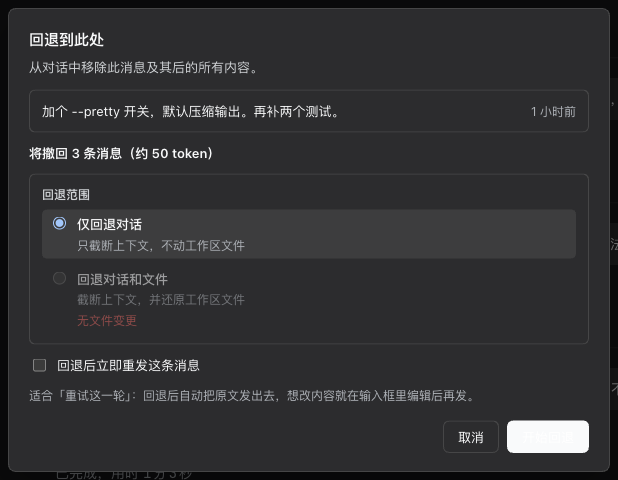
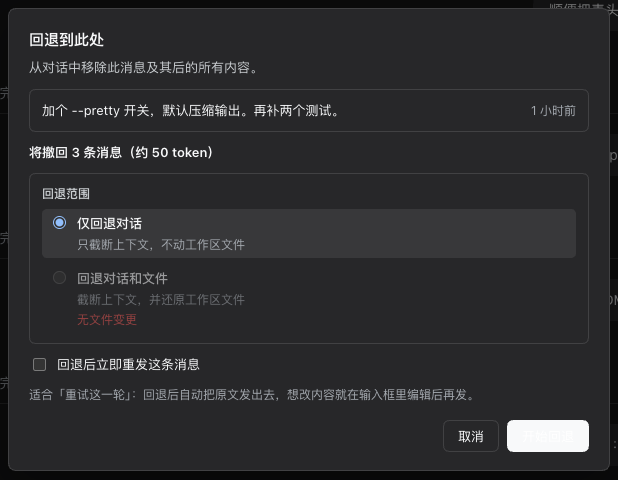
fix(scripts): stop wiping the whole ego browser profile (#33)
Both scripts called Network.clearBrowserCookies to get rid of accumulated
dsh-auth cookies for temporary hosts. ego-browser is the user's real profile, so
that also logged them out of every real site.

They now delete only cookies whose host is loopback (127.0.0.1/localhost/[::1])
and print SMOKE_COOKIES {removed,total}. Measured on this machine: 22 cookies
total, 2 loopback, and the real-site cookie set is unchanged afterwards.

Screenshots are regenerated with PNG metadata stripped (eXIf/tEXt/iTXt/zTXt/tIME)
so the public repo does not carry the capture pipeline's timestamps; the
generator now does this itself on every run.

diff --git a/docs/runtime/0.2.2-rc.1.md b/docs/runtime/0.2.2-rc.1.md
@@ -314,3 +314,30 @@ app.asar 文本、不启动宿主，FAIL 时直接给出受影响的用户功能
 
 **探针本身要能失败**：改坏其中一条 pattern 再跑，应看到 `FAIL seam …｜影响：…` 与末尾清单、
 且退出码为 1（本次已用「把 `extraActions` 改成不存在的标识」验证过）。
+
+### 9.13 ego-browser 用的是**用户真实浏览器 profile**（清 cookie 必须按 domain 限定）
+
+**踩到的坑**：冒烟脚本早期用 `Network.clearBrowserCookies` 清掉临时宿主的 `dsh-auth` cookie，
+否则请求头会累积到 HTTP 431。但这个命令清的是**整个 profile** —— 也就是用户日常在用的
+ego-browser（里面 `.github.com`、`.claude.ai` 等真实登录态），会把人的登录全踢掉。
+
+**正确做法**：只删 host 属于 loopback 的 cookie：
+
+```js
+await page.cdp("Network.enable");
+const all = await page.cdp("Network.getAllCookies");
+const cookies = Array.isArray(all) ? all : (all?.cookies ?? []);
+for (const c of cookies) {
+  const domain = String(c.domain || "").replace(/^\./u, "");
+  if (domain !== "127.0.0.1" && domain !== "localhost" && domain !== "[::1]") continue;
+  await page.cdp("Network.deleteCookies", { name: c.name, domain: c.domain, path: c.path || "/" });
+}
+```
+
+实测：本机 22 个 cookie 里只有 2 个属于 `127.0.0.1`；按上面过滤后 `removed=2`、
+真实站点 cookie 数量前后一致（3 → 3）。仓库里 `smoke-session-rewind.mjs` 与
+`readme-shots-session-rewind.mjs` 都已改成这种定向清理，并会打印 `SMOKE_COOKIES {removed,total}`。
+
+**顺带**：`Page.captureScreenshot` 产出的 PNG 带 `eXIf` 块（sips 裁剪会写入时间戳一类元数据）。
+进公开仓库的截图应剥掉 `eXIf/tEXt/iTXt/zTXt/tIME`——`scripts/readme-shots-session-rewind.mjs`
+的 `stripPngMetadata()` 会自动做，只重算块结构、不动像素。

diff --git a/docs/testing/session-rewind.md b/docs/testing/session-rewind.md
@@ -121,6 +121,9 @@ pnpm smoke:session-rewind
 | 28    | 诊断页报告只读工具已注册                                                                              |
 | 29–34 | 审计记录、marker 计数与形状、日志只追加等收尾断言                                                     |
 
+冒烟会先**定向清理** loopback（127.0.0.1 / localhost）的 cookie 后再打开页面：ego-browser 是用户真实的
+浏览器 profile，绝不能整库清空（会踢掉真实登录态）。清理结果打印成 `SMOKE_COOKIES {"removed":…,"total":…}`。
+
 失败时会打印断言明细并把截图留在 `/tmp/dsh-smoke-rewind-shots/`（截图含临时 home 里的真实
 会话内容，不要提交）。`SMOKE_DEBUG=1` 可看浏览器脚本完整输出。
 

diff --git a/.changeset/session-rewind-readme-shots.md b/.changeset/session-rewind-readme-shots.md
@@ -1,0 +1,5 @@
+---
+"@kangyishuai/dsh-session-rewind": patch
+---
+
+Ship the README screenshots to npm and keep them sanitized: the confirmation dialog and the rewind panel are generated from a throwaway DSH home containing only a synthetic workspace and session, cropped to the dialog/panel, and have their PNG metadata stripped. No documentation or behaviour change.
